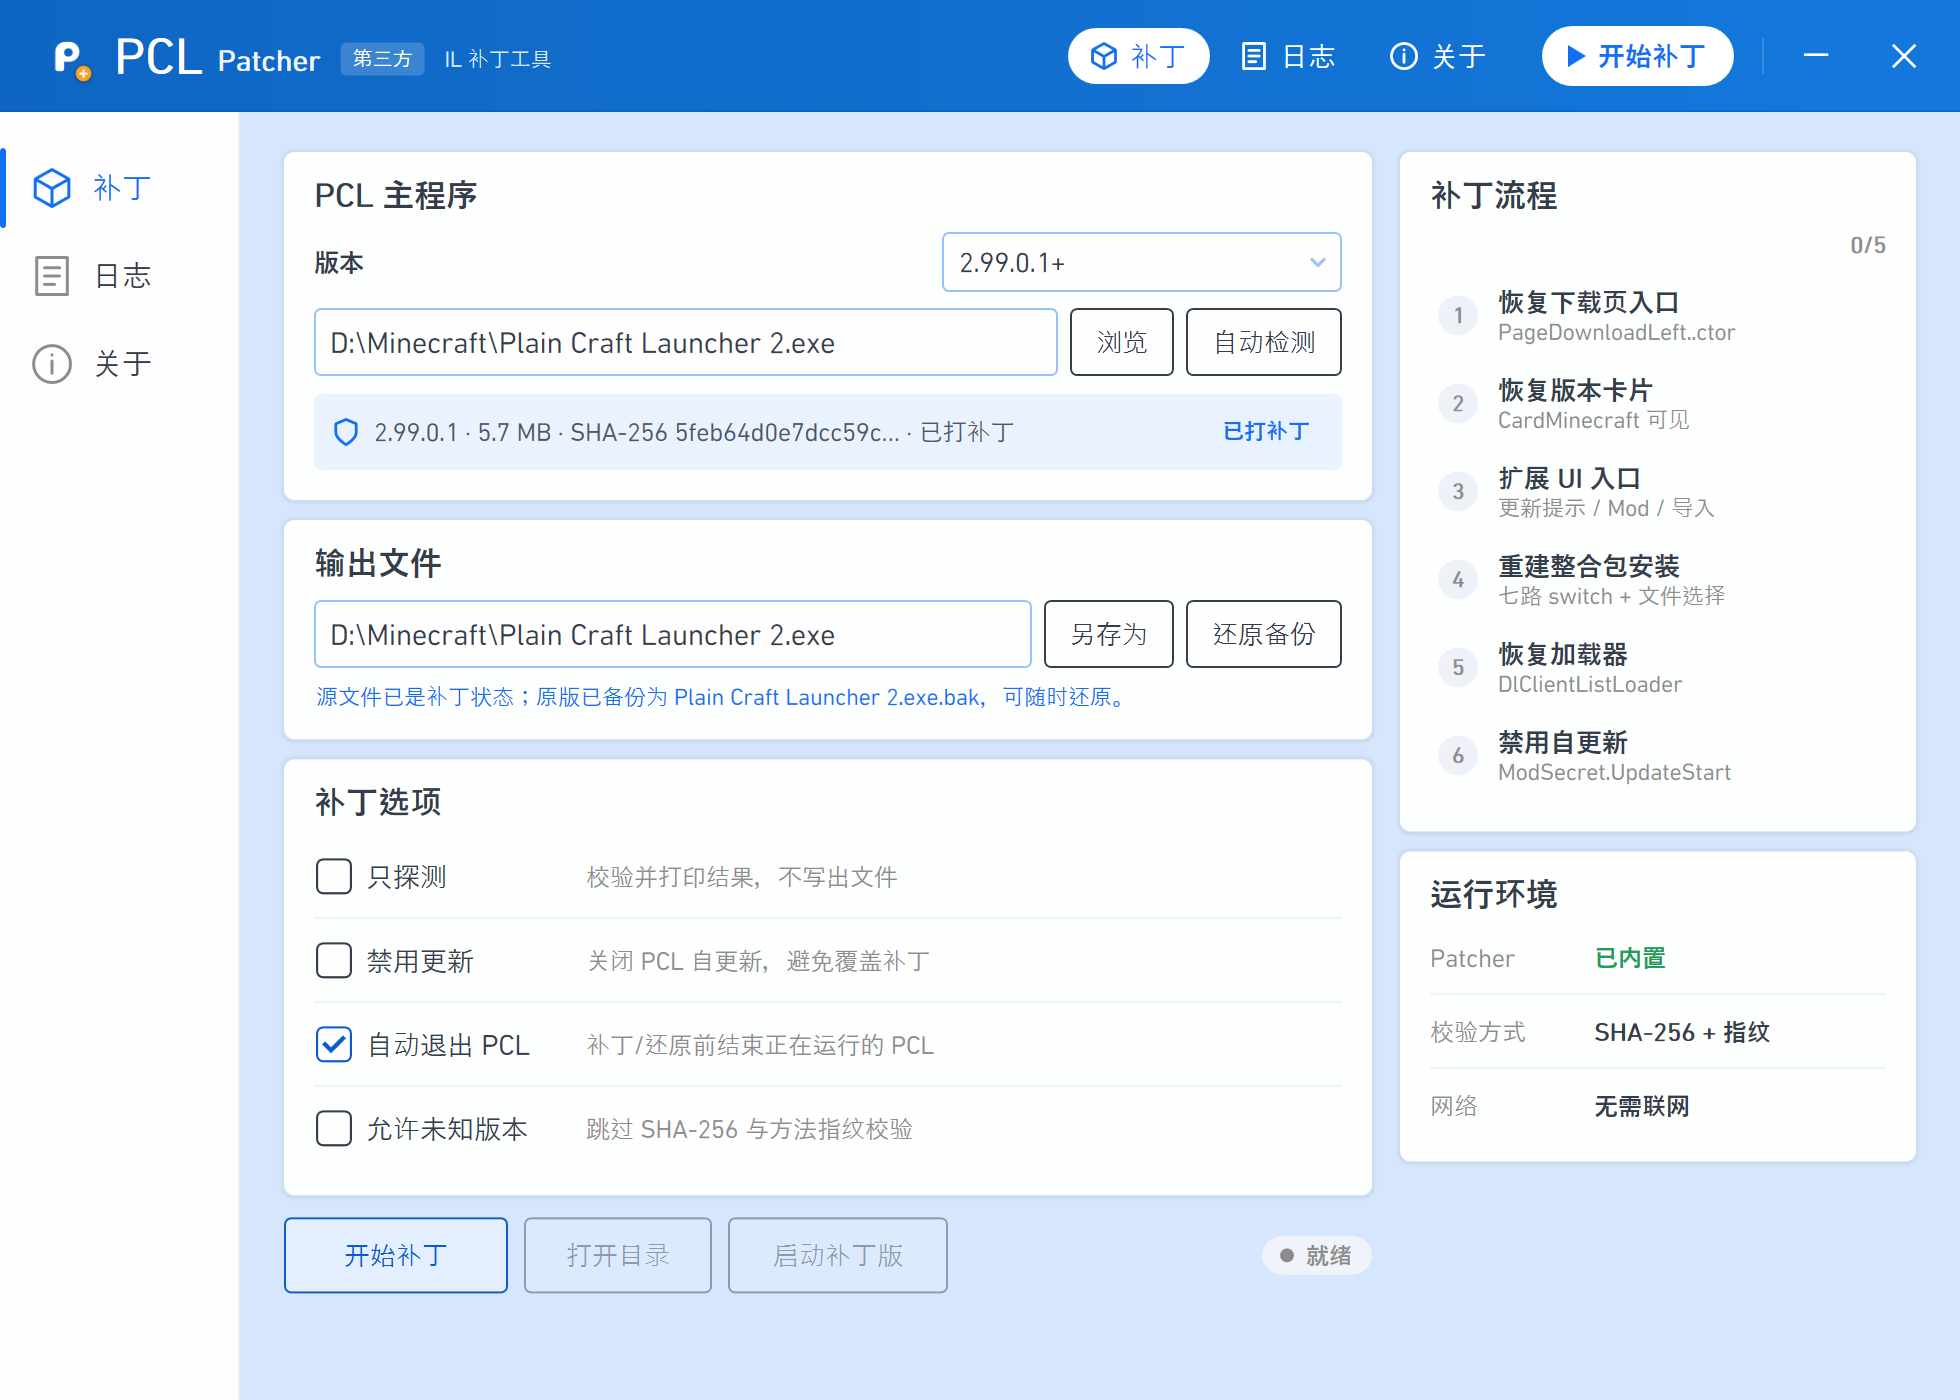
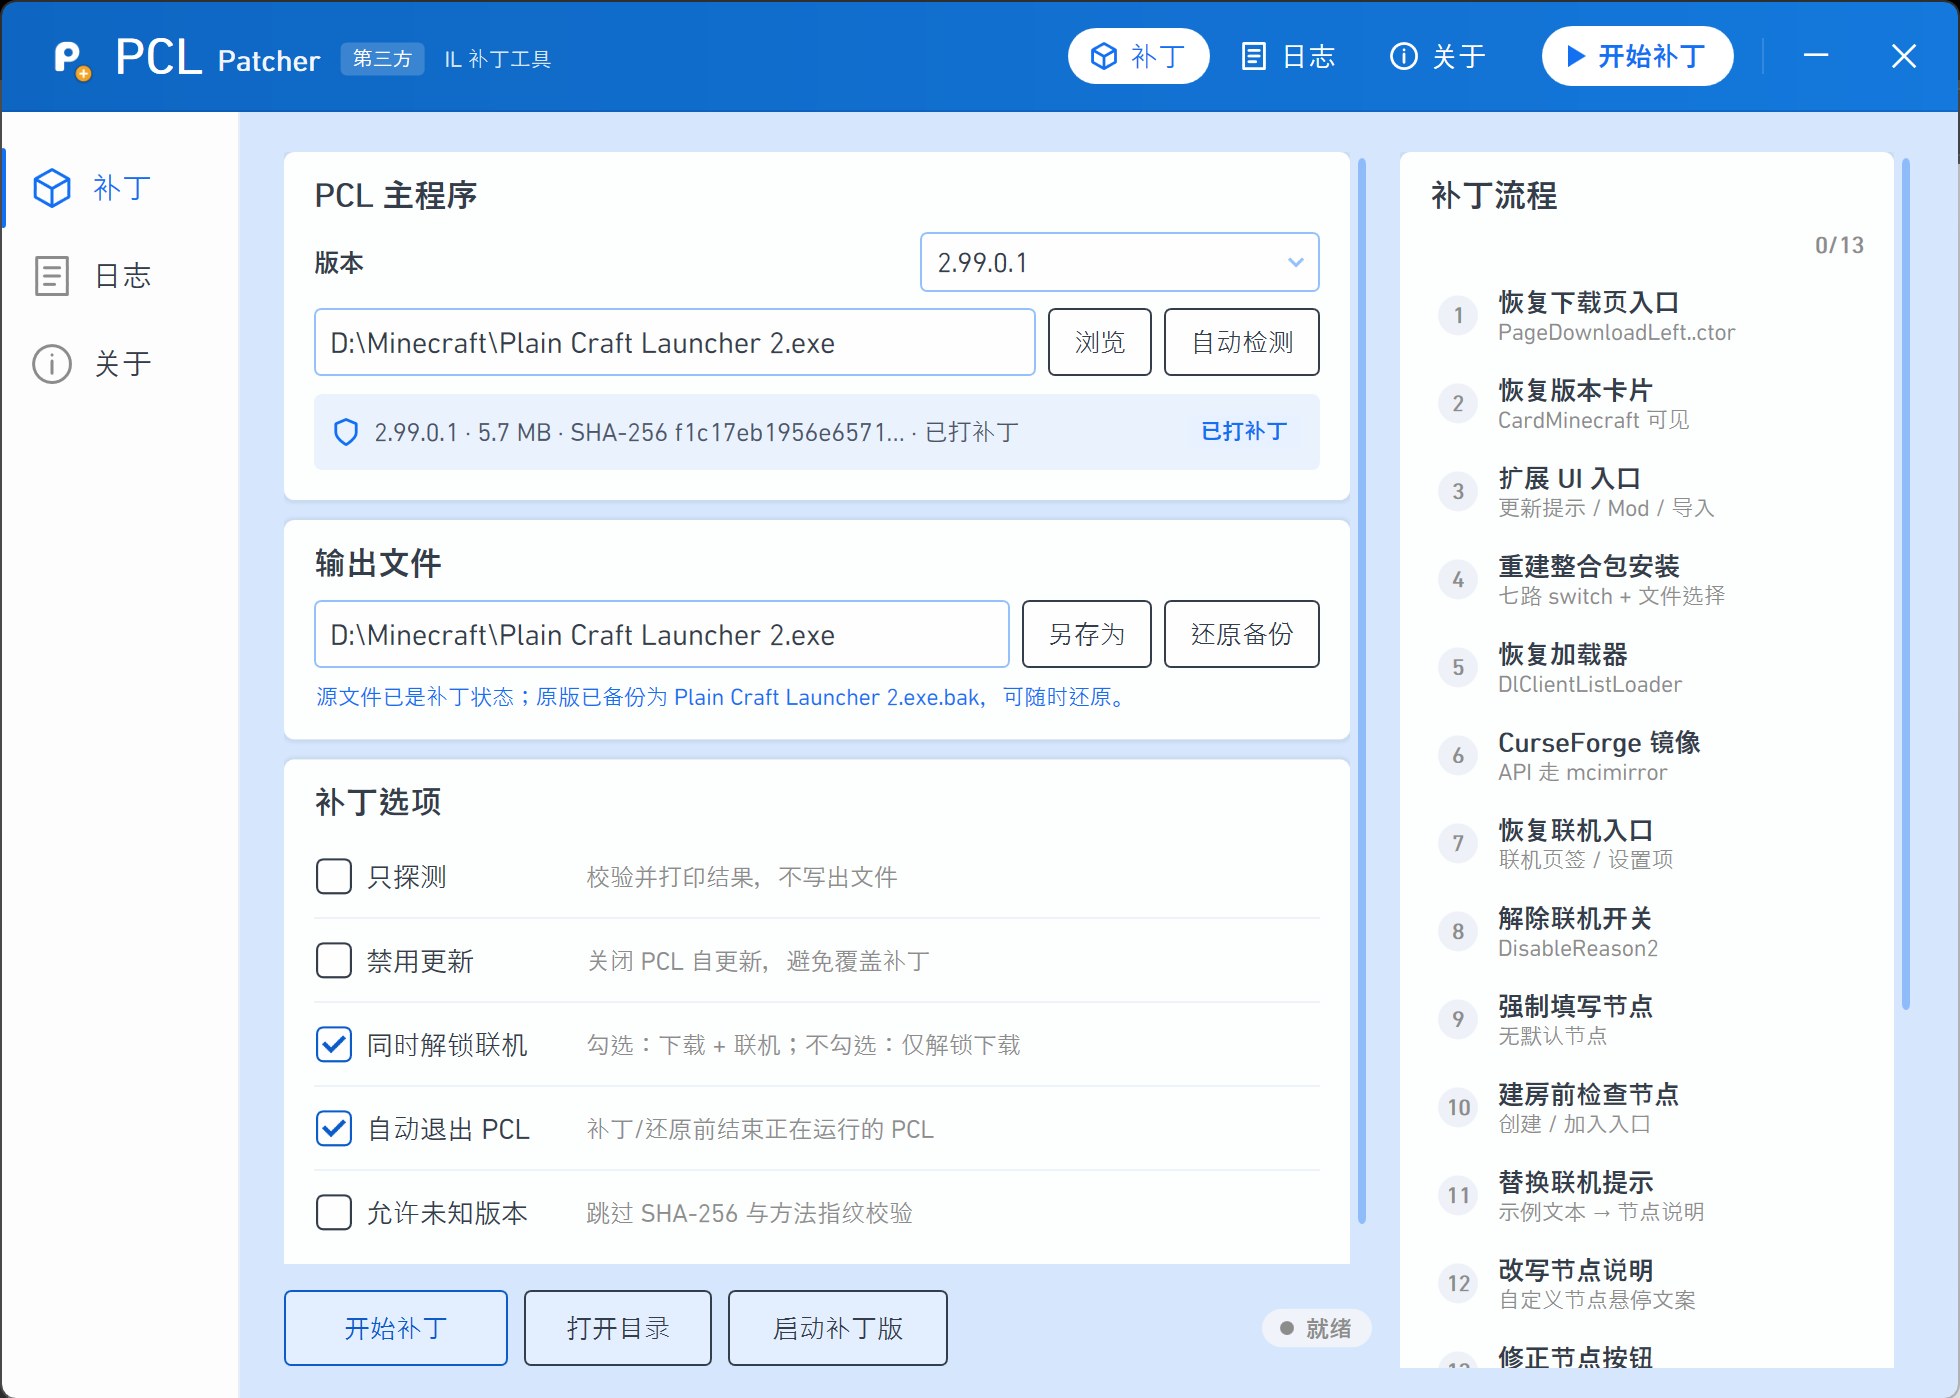
GUI：版本下拉框去掉加号，更新界面截图
版本框原来显示 SupportLabel（2.99.0.1+）。加号容易被读成版本号的一部分，
改为只显示最老的支持版本 2.99.0.1：范围语义留在悬停提示（「2.99.0.1 及更高版本」）
与版本不匹配弹窗里，弹窗改用 SupportDescription。

顺带重截 assets/screenshot/gui.png：旧图还是 6 步、0/5 的版本，和现在的 13 步对不上。

diff --git a/src/PclPatcher.Gui.Net48/Common/PclVersionCatalog.cs b/src/PclPatcher.Gui.Net48/Common/PclVersionCatalog.cs
@@ -1,4 +1,4 @@
-#nullable enable
+#nullable enable
 
 namespace PclPatcher.Gui.Net48;
 
@@ -23,9 +23,9 @@ internal sealed class PclBuildProfile
 }
 
 /// <summary>
-/// Supported PCL builds, read from <c>PclPatcher --profiles</c>. The UI renders
-/// a range label (for example <c>2.99.0.1+</c>) instead of naming a single build,
-/// so adding a profile in the patcher is enough to update every screen.
+/// Supported PCL builds, read from <c>PclPatcher --profiles</c>. The UI shows the
+/// oldest supported build (for example <c>2.99.0.1</c>) and keeps the “and newer”
+/// wording in the tooltip, so adding a profile in the patcher updates every screen.
 /// </summary>
 internal sealed class PclVersionCatalog
 {
@@ -47,8 +47,8 @@ internal sealed class PclVersionCatalog
 
     public string MinimumVersion => IsLoaded ? _profiles[0].Version : string.Empty;
 
-    /// <summary>Compact label for the version row and badges, e.g. "2.99.0.1+".</summary>
-    public string SupportLabel => IsLoaded ? MinimumVersion + "+" : UnknownLabel;
+    /// <summary>Compact label for the version row and badges, e.g. "2.99.0.1".</summary>
+    public string SupportLabel => IsLoaded ? MinimumVersion : UnknownLabel;
 
     /// <summary>Human readable range, e.g. "2.99.0.1 及更高版本".</summary>
     public string SupportDescription => IsLoaded ? MinimumVersion + " 及更高版本" : "受支持的 PCL 版本";

diff --git a/src/PclPatcher/Profiles.cs b/src/PclPatcher/Profiles.cs
@@ -1,10 +1,11 @@
-namespace PclPatcher;
+namespace PclPatcher;
 
 internal static partial class Program
 {
     // The profile table below is the single source of truth for supported PCL
-    // builds. The GUIs read it through `PclPatcher --profiles` and render a range
-    // label ("2.99.0.1+"), so adding a version never requires touching UI code.
+    // builds. The GUIs read it through `PclPatcher --profiles` and render the
+    // oldest supported version ("2.99.0.1"), so adding a version never requires
+    // touching UI code. The "+" range wording stays in CLI output.
     private static string KnownVersion => Profiles[0].Version;
     private static string SupportedRange => KnownVersion + "+";
 

diff --git a/src/PclPatcher.Gui.Net48/Views/MainWindow.Actions.cs b/src/PclPatcher.Gui.Net48/Views/MainWindow.Actions.cs
@@ -79,7 +79,7 @@ public partial class MainWindow : Window
         {
             PclDialog.Show(this,
                 "版本不匹配",
-                "当前文件不在已支持的版本范围（" + _catalog.SupportLabel + "）内，也没有可用的原版备份。\n" +
+                "当前文件不在已支持的版本范围（" + _catalog.SupportDescription + "）内，也没有可用的原版备份。\n" +
                 "请选择受支持的 PCL 版本，或先在“补丁选项”中勾选“允许未知版本”。",
                 "知道了",
                 tone: DialogTone.Warning);

diff --git a/src/PclPatcher.Gui.Net48/Views/MainWindow.Helpers.cs b/src/PclPatcher.Gui.Net48/Views/MainWindow.Helpers.cs
@@ -76,7 +76,7 @@ public partial class MainWindow : Window
 
     /// <summary>
     /// Reads the supported PCL builds from the patcher, so the version row, the
-    /// about badge and the mismatch dialog all render the same "X+" range and no
+    /// about badge and the mismatch dialog all render the same label and no
     /// PCL build is hardcoded in the GUI.
     /// </summary>
     private async Task RefreshVersionCatalogAsync()
